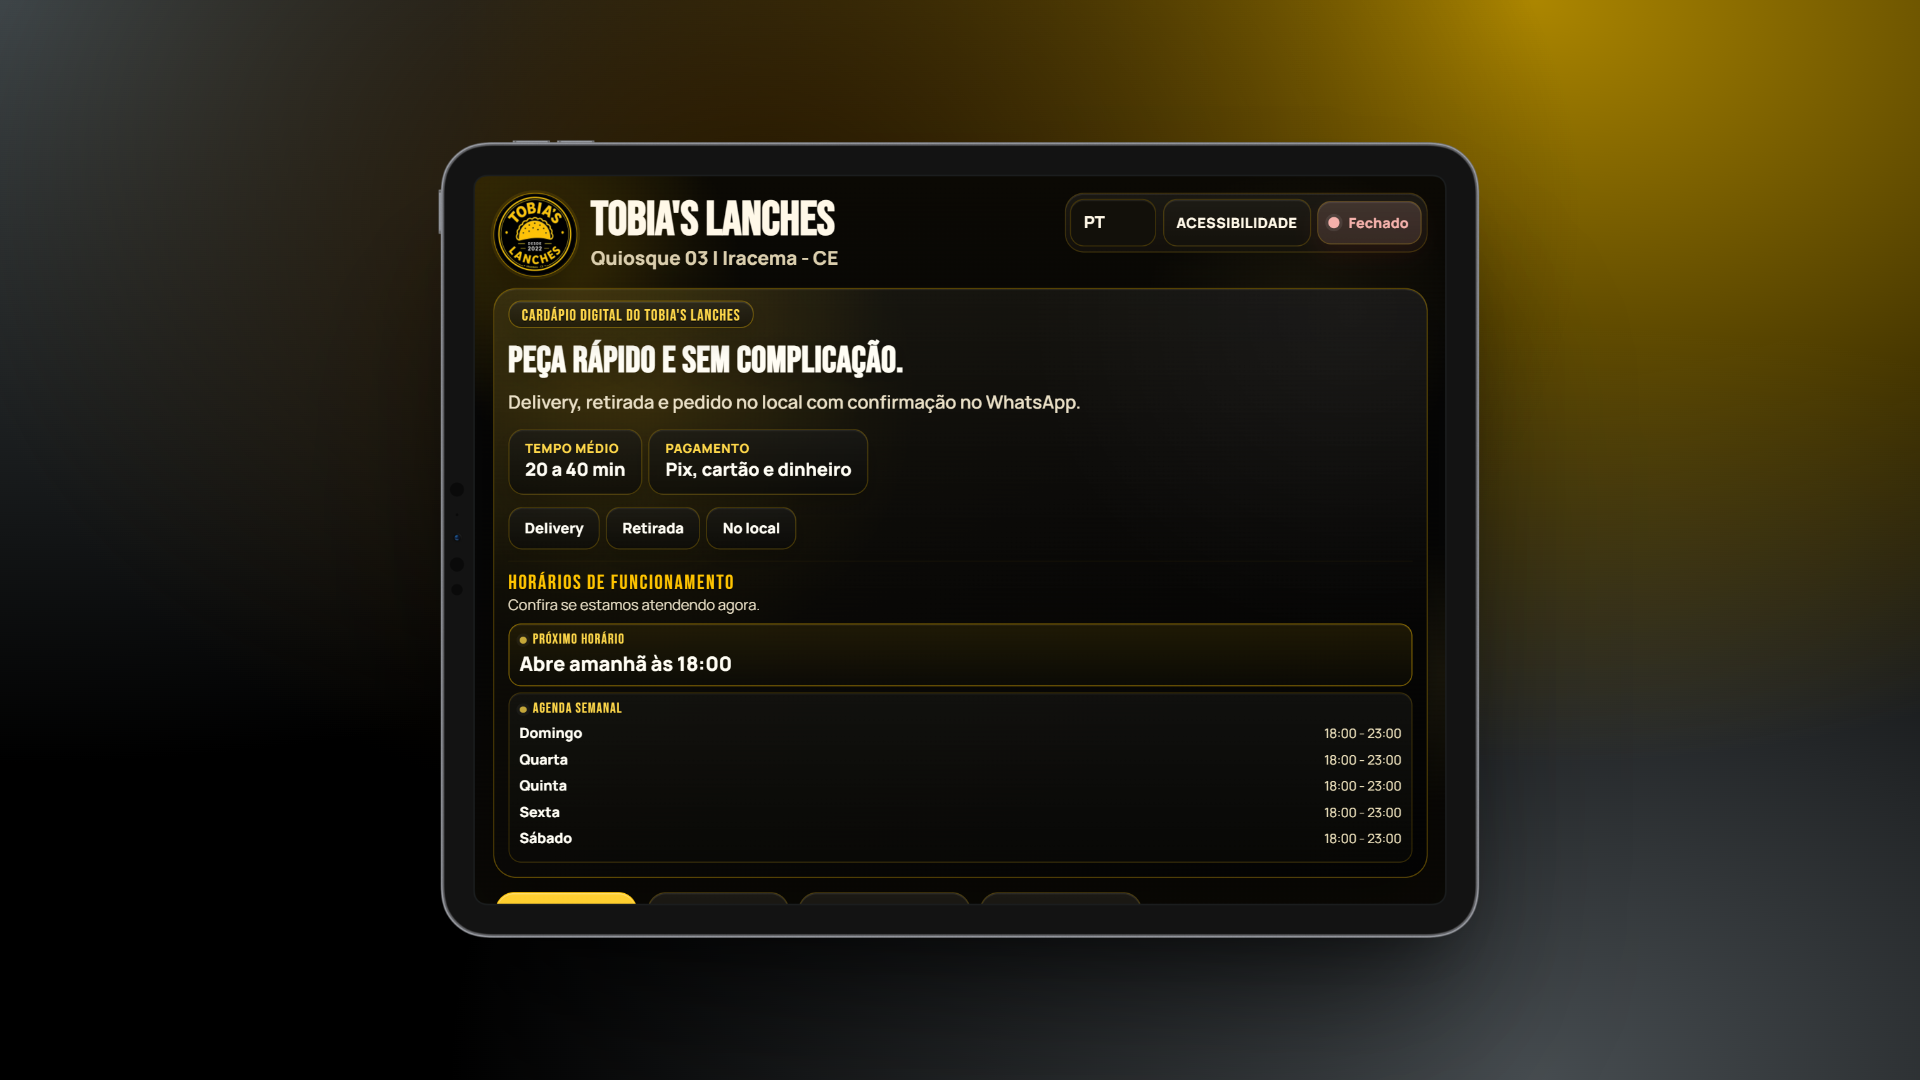
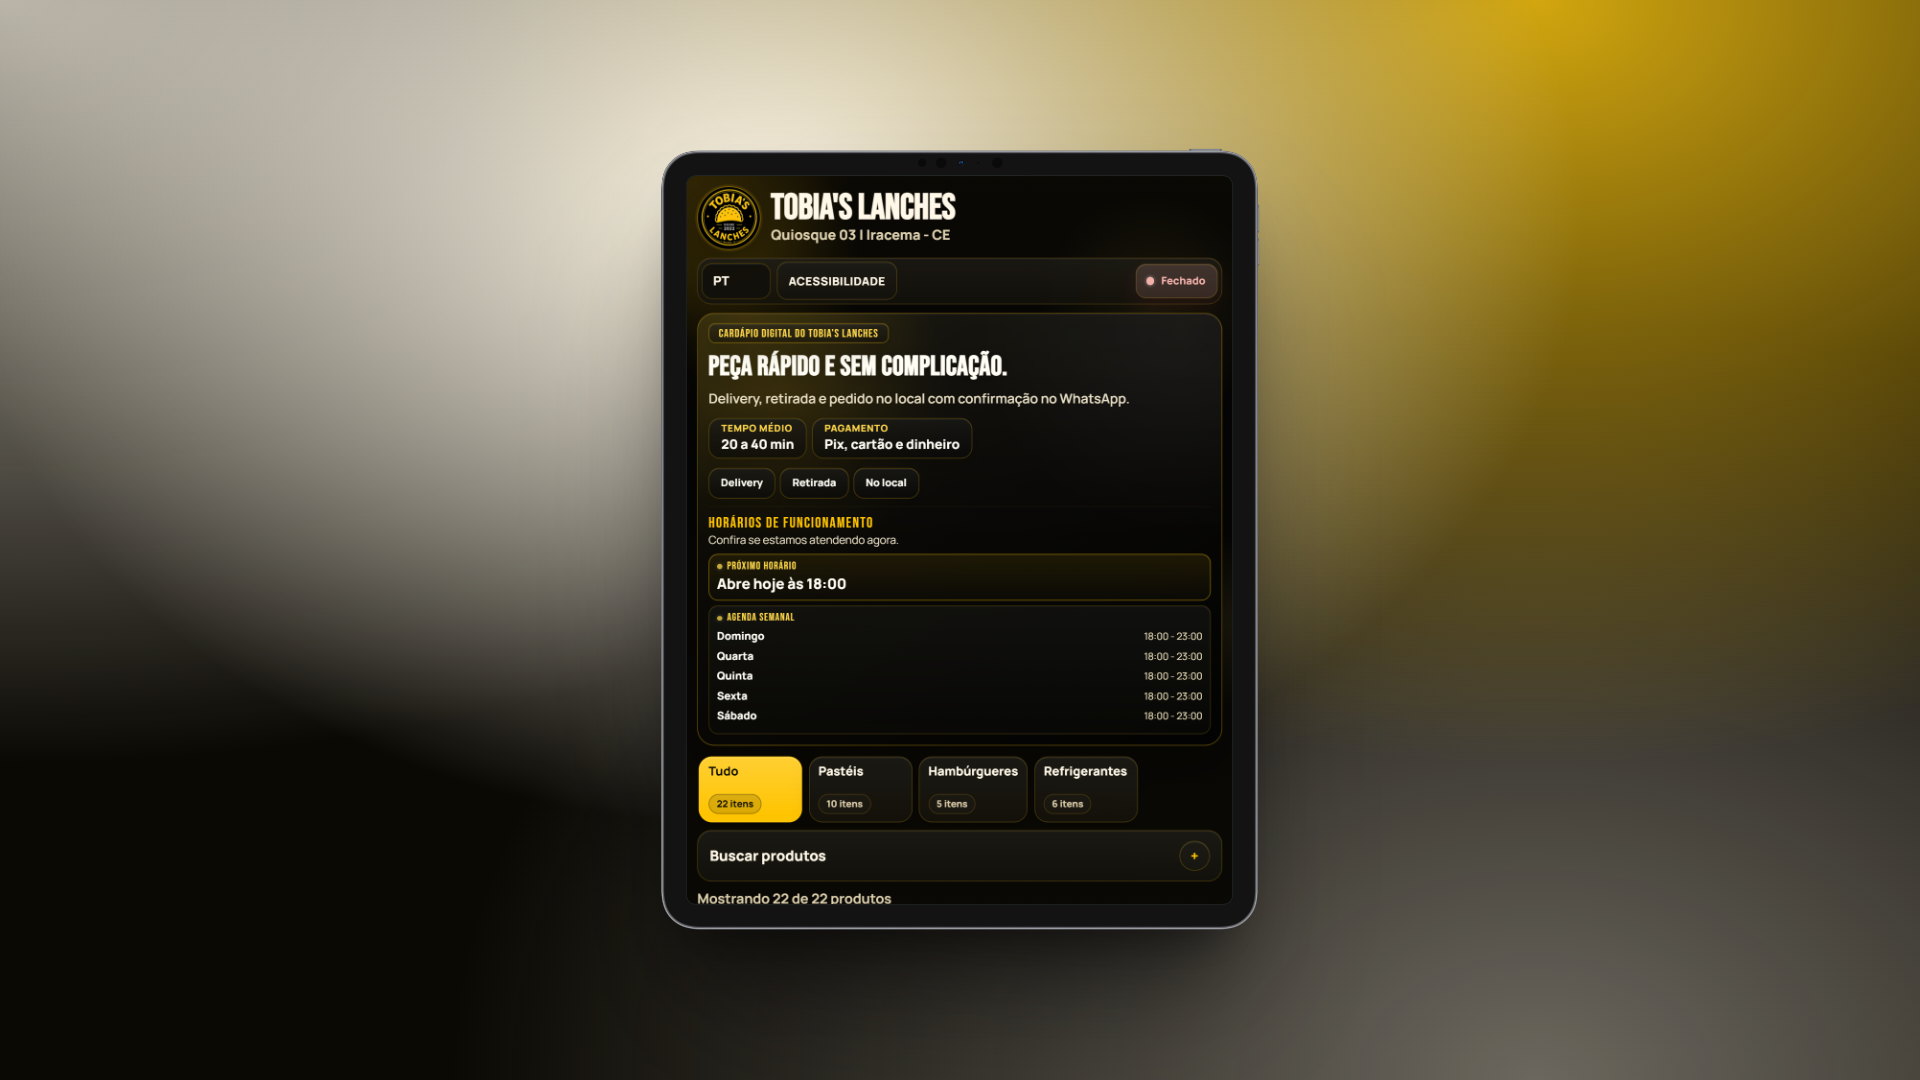
Padroniza vitrines dos projetos no portfolio

diff --git a/styles.css b/styles.css
@@ -327,11 +327,13 @@ h1 {
   position: absolute;
   top: 0;
   left: 0;
-  width: min(14rem, 54%);
+  right: 0;
   height: 1px;
   background: linear-gradient(
     90deg,
-    rgba(216, 210, 200, 0.28),
+    rgba(216, 210, 200, 0),
+    rgba(216, 210, 200, 0.3),
+    rgba(216, 210, 200, 0.18),
     rgba(216, 210, 200, 0)
   );
 }
@@ -398,6 +400,7 @@ h1 {
 
 .vitrine-projeto {
   padding: clamp(0.9rem, 2vw, 1.15rem);
+  padding-bottom: clamp(0.7rem, 1.4vw, 0.84rem);
   border-bottom: 1px solid rgba(255, 255, 255, 0.07);
   background:
     linear-gradient(180deg, rgba(255, 255, 255, 0.035), rgba(255, 255, 255, 0.012)),
@@ -409,7 +412,8 @@ h1 {
   min-height: clamp(176px, 16vw, 204px);
 }
 
-.vitrine-cena-v2 {
+.vitrine-cena-v2,
+.vitrine-cena-v1 {
   position: static;
   min-height: 0;
   display: grid;
@@ -437,8 +441,10 @@ h1 {
 
 .rotulos-vitrine {
   display: inline-flex;
+  width: 100%;
   flex-wrap: wrap;
   align-items: center;
+  justify-content: center;
   gap: 0;
   margin-top: 0.62rem;
   color: rgba(243, 239, 230, 0.56);
@@ -495,23 +501,27 @@ h1 {
   filter: saturate(0.94) contrast(1.02);
 }
 
-.vitrine-cena-v2 .quadro-vitrine {
+.vitrine-cena-v2 .quadro-vitrine,
+.vitrine-cena-v1 .quadro-vitrine {
   position: relative;
   inset: auto;
   width: 100%;
 }
 
-.vitrine-cena-v2 .quadro-vitrine-pc {
+.vitrine-cena-v2 .quadro-vitrine-pc,
+.vitrine-cena-v1 .quadro-vitrine-pc {
   grid-area: pc;
   aspect-ratio: 16 / 9;
 }
 
-.vitrine-cena-v2 .quadro-vitrine-tablet {
+.vitrine-cena-v2 .quadro-vitrine-tablet,
+.vitrine-cena-v1 .quadro-vitrine-tablet {
   grid-area: tablet;
   aspect-ratio: 16 / 9;
 }
 
-.vitrine-cena-v2 .quadro-vitrine-mobile {
+.vitrine-cena-v2 .quadro-vitrine-mobile,
+.vitrine-cena-v1 .quadro-vitrine-mobile {
   grid-area: mobile;
   aspect-ratio: 16 / 9;
 }
@@ -530,14 +540,14 @@ h1 {
   padding: clamp(1.05rem, 2vw, 1.3rem);
   display: flex;
   flex-direction: column;
-  gap: 0.98rem;
+  gap: 0.82rem;
   flex: 1;
 }
 
 .projeto-topo {
   display: flex;
   flex-direction: column;
-  gap: 0.7rem;
+  gap: 0.64rem;
 }
 
 .etiqueta-projeto {
@@ -570,7 +580,12 @@ h1 {
 
 .info-projetos {
   font-size: clamp(1.25rem, 1.8vw, 1.45rem);
-  line-height: 1.25;
+  line-height: 1.18;
+  max-width: 100%;
+  overflow-wrap: anywhere;
+  word-break: normal;
+  hyphens: auto;
+  text-wrap: pretty;
 }
 
 .paragrafo-projetos {
@@ -762,10 +777,6 @@ h1 {
     max-width: 35rem;
   }
 
-  .info-projetos {
-    min-height: 3.7rem;
-  }
-
   .projetos-caixa {
     grid-template-columns: repeat(2, minmax(0, 1fr));
   }
@@ -869,10 +880,6 @@ h1 {
     padding-top: 0.9rem;
   }
 
-  .sobre-biografia > * + *::before {
-    width: min(10rem, 58%);
-  }
-
   .particulas {
     display: block;
     opacity: 0.34;
@@ -883,7 +890,7 @@ h1 {
   }
 
   .vitrine-projeto {
-    padding: 0.88rem 0.88rem 0.96rem;
+    padding: 0.88rem 0.88rem 0.78rem;
   }
 
   .vitrine-cena {
@@ -923,6 +930,7 @@ h1 {
 
   .rotulos-vitrine {
     width: 100%;
+    justify-content: center;
     margin-top: 0.56rem;
     gap: 0.4rem;
     font-size: 0.66rem;

diff --git a/index.html b/index.html
@@ -196,10 +196,15 @@
 
         <article class="cartao-projeto" data-cartao-projeto>
           <div class="vitrine-projeto" aria-label="Capturas da primeira versão do Cardápio Digital">
-            <div class="vitrine-cena vitrine-cena-rolavel">
+            <div class="vitrine-cena vitrine-cena-v1 vitrine-cena-rolavel">
               <figure class="quadro-vitrine quadro-vitrine-pc">
                 <img src="img/PC-Versão-1.0.png" alt="Interface em computador da primeira versão do Cardápio Digital"
                   class="imagem-vitrine imagem-vitrine-pc" loading="lazy" />
+              </figure>
+
+              <figure class="quadro-vitrine quadro-vitrine-tablet">
+                <img src="img/Tablet-Versão-1.0.png" alt="Interface em tablet da primeira versão do Cardápio Digital"
+                  class="imagem-vitrine imagem-vitrine-tablet" loading="lazy" />
               </figure>
 
               <figure class="quadro-vitrine quadro-vitrine-mobile">
@@ -215,6 +220,9 @@
                 Desktop
               </button>
               <button type="button" class="rotulo-vitrine-botao" data-ir-para-vitrine="1" aria-pressed="false">
+                Tablet
+              </button>
+              <button type="button" class="rotulo-vitrine-botao" data-ir-para-vitrine="2" aria-pressed="false">
                 Mobile
               </button>
             </div>
